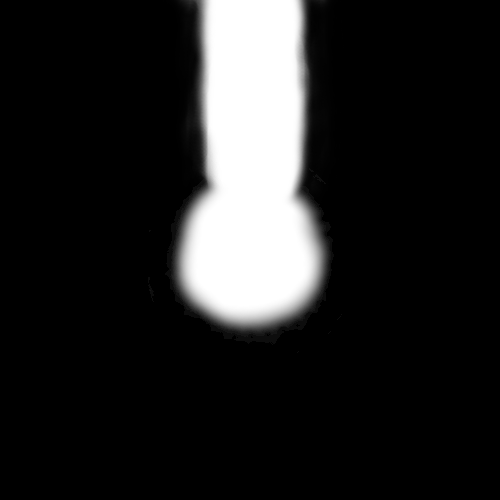
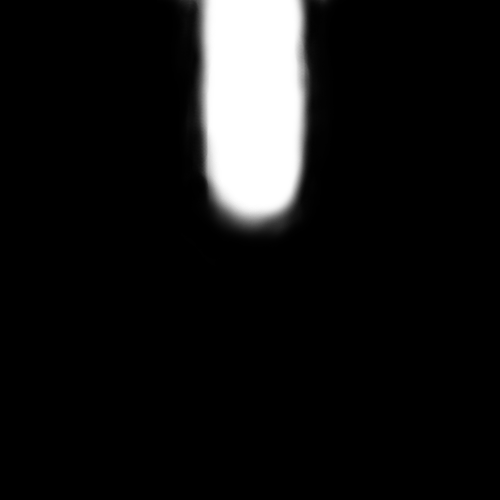
remove end pipes

Changed region(s): [[0.33, 0.36, 0.66, 0.69]]

diff --git a/src/pipe.rs b/src/pipe.rs
@@ -1,24 +1,18 @@
 use spanned::Spanned;
 
 pub const PIPES: &[&str] = &[
-    "end_pipe0.png",
-    "end_pipe1.png",
-    "end_pipe2.png",
-    "end_pipe2opposite.png",
-    "end_pipe3.png",
-    "end_pipe4.png",
-    "drain_pipe0.png",
-    "drain_pipe1.png",
-    "drain_pipe2.png",
-    "drain_pipe2opposite.png",
-    "drain_pipe3.png",
-    "drain_pipe4.png",
     "pipe0.png",
     "pipe1.png",
     "pipe2.png",
     "pipe2opposite.png",
     "pipe3.png",
     "pipe4.png",
+    "drain_pipe0.png",
+    "drain_pipe1.png",
+    "drain_pipe2.png",
+    "drain_pipe2opposite.png",
+    "drain_pipe3.png",
+    "drain_pipe4.png",
     "pump.png",
 ];
 
@@ -26,12 +20,6 @@ pub const PIPES: &[&str] = &[
 pub struct Pipe {
     // Bitmask of the actual data
     data: u8,
-}
-
-pub enum Center {
-    Nothing,
-    Drain,
-    Connected,
 }
 
 impl Pipe {
@@ -66,20 +54,16 @@ impl Pipe {
         (i + j, rot)
     }
 
-    pub fn parts(&self) -> (Center, Directions<bool>) {
-        let center = match (self.data & 0b1100_0000) >> 6 {
-            0 => Center::Nothing,
-            1 => Center::Drain,
-            2 => Center::Connected,
-            _ => unreachable!(),
-        };
+    /// (drain, connections)
+    pub fn parts(&self) -> (bool, Directions<bool>) {
+        let drain = (self.data & 0b1000_0000) != 0;
         let directions = Directions {
             up: self.data & 0b0000_1000 != 0,
             right: self.data & 0b0000_0100 != 0,
             down: self.data & 0b0000_0010 != 0,
             left: self.data & 0b0000_0001 != 0,
         };
-        (center, directions)
+        (drain, directions)
     }
 
     pub fn parse(c: &Spanned<char>) -> Option<Self> {

diff --git a/src/main.rs b/src/main.rs
@@ -12,7 +12,7 @@ fn startup(mut commands: Commands, asset_server: Res<AssetServer>, windows: Quer
         grab_buttons: vec![MouseButton::Middle], // which buttons should drag the camera
         enabled: true,        // when false, controls are disabled. See toggle example.
         zoom_to_cursor: true, // whether to zoom towards the mouse or the center of the screen
-        min_scale: 1.,        // prevent the camera from zooming too far in
+        min_scale: 0.1,       // prevent the camera from zooming too far in
         ..Default::default()
     });
 
@@ -83,6 +83,10 @@ fn startup(mut commands: Commands, asset_server: Res<AssetServer>, windows: Quer
     let tile_size = TilemapTileSize { x: 500.0, y: 500.0 };
     let map_type = TilemapType::Square;
 
+    let scalex = (windows.single().width() - 100.0) / tile_size.x * (map_size.x as f32);
+    let scaley = (windows.single().height() - 100.0) / tile_size.y * (map_size.y as f32);
+    let scale = scalex.min(scaley);
+
     commands.entity(tilemap_entity).insert(TilemapBundle {
         grid_size: tile_size.into(),
         map_type,
@@ -90,7 +94,7 @@ fn startup(mut commands: Commands, asset_server: Res<AssetServer>, windows: Quer
         storage: tile_storage,
         texture: TilemapTexture::Vector(texture_handle),
         tile_size,
-        transform: Transform::from_scale((1.0 / 16.0, 1.0 / 16.0, 1.0).into()).with_translation(
+        transform: Transform::from_scale((1.0 / scale, 1.0 / scale, 1.0).into()).with_translation(
             (
                 -windows.single().width() / 2.0 + 50.0,
                 -windows.single().height() / 2.0 + 50.0,
